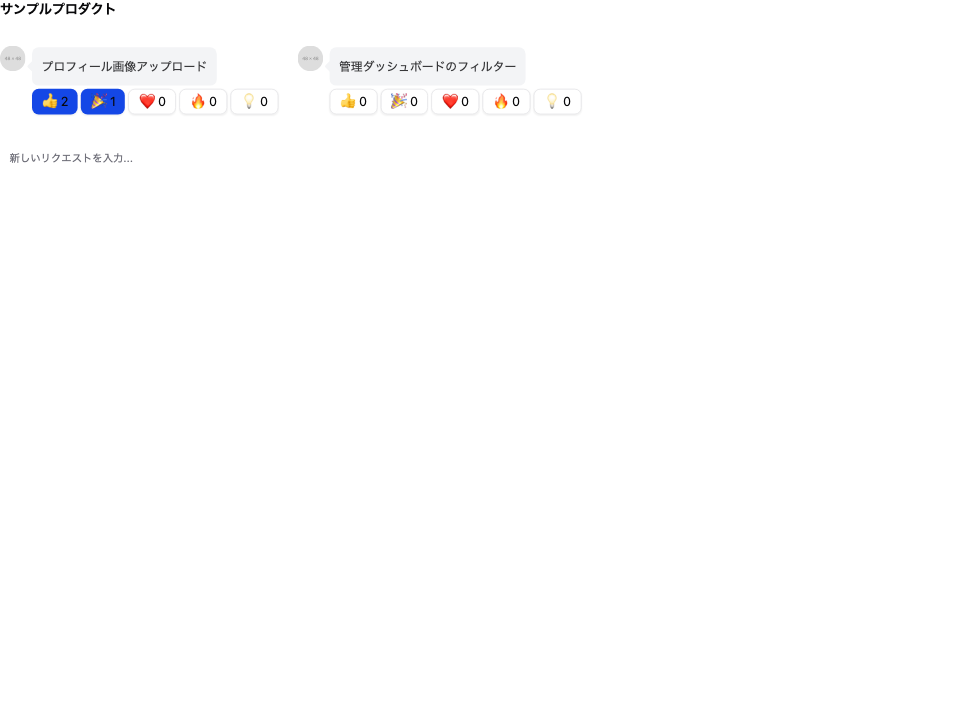
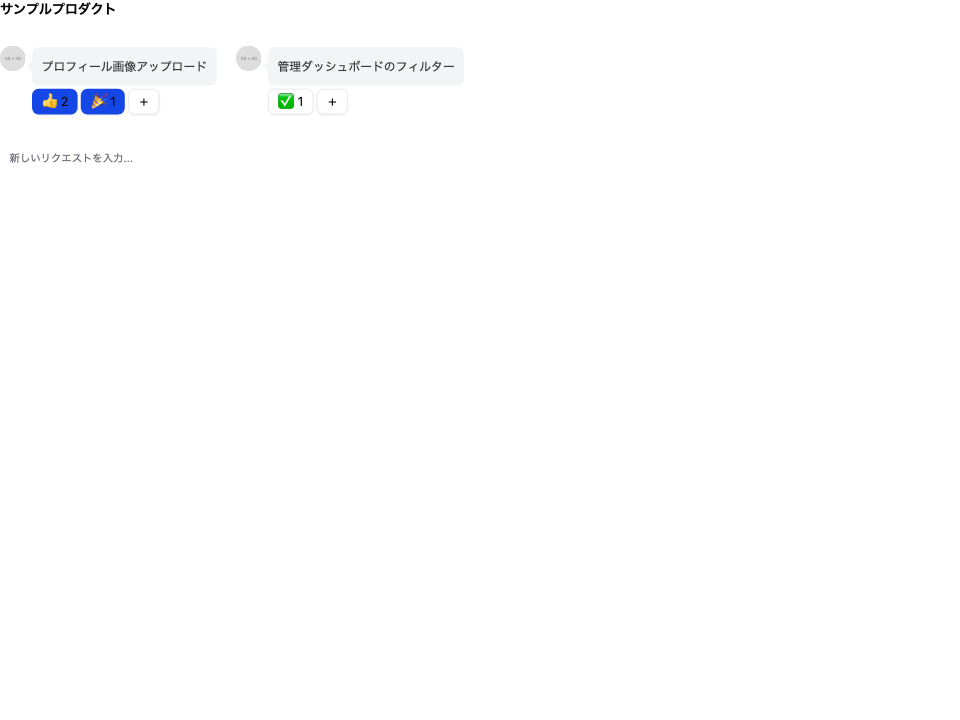
feat: add emoji picker component with related tests and stories

Changed region(s): [[0.25, 0.0611, 0.5312, 0.1528], [0.125, 0.1222, 0.2188, 0.1528], [0.5625, 0.1222, 0.5938, 0.1528]]

diff --git a/packages/user-feature-product/src/components/feature-request-item.tsx b/packages/user-feature-product/src/components/feature-request-item.tsx
@@ -2,11 +2,9 @@
 
 import { Button, RequestCard, VStack } from "@repo/ui/components";
 import Form from "next/form";
-import { type ComponentProps, useRef } from "react";
+import { type ComponentProps, useMemo, useRef } from "react";
 
 import type { ReactionSummary } from "../libs/reaction-summary";
-
-const AVAILABLE_EMOJIS = ["👍", "🎉", "❤", "🔥", "💡"] as const;
 
 type Props = {
   avatar: RequestCardAvatar;
@@ -37,9 +35,7 @@ export const FeatureRequestItem = ({
   const actionInputRef = useRef<HTMLInputElement>(null);
 
   const handleReact = (emoji: string) => {
-    const clickedReaction = reactionOptions.find(
-      (reaction) => reaction.emoji === emoji,
-    );
+    const clickedReaction = reactionMap.get(emoji);
     const nextAction = clickedReaction?.reactedByViewer ? "down" : "up";
     if (actionInputRef.current) {
       actionInputRef.current.value = nextAction;
@@ -54,13 +50,11 @@ export const FeatureRequestItem = ({
     }
   };
 
-  const reactionMap = new Map(
-    reactions.map((reaction) => [reaction.emoji, reaction]),
+  const reactionMap = useMemo(
+    () => new Map(reactions.map((reaction) => [reaction.emoji, reaction])),
+    [reactions],
   );
-  const reactionOptions = AVAILABLE_EMOJIS.map(
-    (emoji) =>
-      reactionMap.get(emoji) ?? { count: 0, emoji, reactedByViewer: false },
-  );
+  const reactionOptions = reactions;
 
   const footerActions =
     canDelete && onDeleteFeatureRequest ? (
@@ -81,6 +75,7 @@ export const FeatureRequestItem = ({
       <RequestCard
         avatar={avatar}
         detail={detail}
+        enableEmojiPicker
         footerActions={footerActions}
         onReact={handleReact}
         reactions={reactionOptions}
@@ -95,7 +90,7 @@ export const FeatureRequestItem = ({
           type="hidden"
         />
         <input
-          defaultValue={reactionOptions[0]?.emoji ?? AVAILABLE_EMOJIS[0]}
+          defaultValue={reactionOptions[0]?.emoji ?? ""}
           name="emoji"
           ref={emojiInputRef}
           type="hidden"

diff --git a/packages/ui/src/components/domain/emoji-picker/emoji-picker.spec.tsx b/packages/ui/src/components/domain/emoji-picker/emoji-picker.spec.tsx
@@ -1,0 +1,58 @@
+import { ComponentProps, PropsWithChildren } from "react";
+import { describe, expect, it, vi } from "vitest";
+import { render } from "vitest-browser-react";
+
+import { EmojiPicker } from "./emoji-picker";
+
+vi.mock("../../shadcn", () => ({
+  Button: ({ children, ...props }: ComponentProps<"button">) => (
+    <button {...props}>{children}</button>
+  ),
+  DropdownMenu: ({ children }: PropsWithChildren) => (
+    <div data-testid="mock-dropdown">{children}</div>
+  ),
+  DropdownMenuContent: ({ children }: PropsWithChildren) => (
+    <div data-testid="mock-content">{children}</div>
+  ),
+  DropdownMenuTrigger: ({ children }: PropsWithChildren) => <>{children}</>,
+}));
+
+vi.mock("@emoji-mart/react", () => ({
+  __esModule: true,
+  default: ({ onEmojiSelect }: { onEmojiSelect: (emoji: unknown) => void }) => (
+    <button
+      data-testid="mock-picker"
+      onClick={() => onEmojiSelect({ native: "😄" })}
+      type="button"
+    >
+      pick
+    </button>
+  ),
+}));
+
+vi.mock("@emoji-mart/data", () => ({
+  __esModule: true,
+  default: {},
+}));
+
+describe("EmojiPicker", () => {
+  it("invokes onSelect with chosen emoji", async () => {
+    const handleSelect = vi.fn();
+    await render(<EmojiPicker onSelect={handleSelect} />);
+
+    const trigger =
+      document.querySelector<HTMLButtonElement>("button[aria-label]");
+    expect(trigger).not.toBeNull();
+
+    trigger?.click();
+
+    const pickerButton = document.querySelector<HTMLButtonElement>(
+      "[data-testid='mock-picker']",
+    );
+    expect(pickerButton).not.toBeNull();
+
+    pickerButton?.click();
+
+    expect(handleSelect).toHaveBeenCalledWith("😄");
+  });
+});

diff --git a/packages/ui/src/components/domain/request-card/request-card.spec.tsx b/packages/ui/src/components/domain/request-card/request-card.spec.tsx
@@ -1,4 +1,4 @@
-import { afterEach, describe, expect, it } from "vitest";
+import { describe, expect, it } from "vitest";
 import { render } from "vitest-browser-react";
 
 import { RequestCard } from "./request-card";
@@ -15,10 +15,6 @@ const openDialog = async () => {
   trigger?.click();
   await waitForDialog();
 };
-
-afterEach(() => {
-  document.body.innerHTML = "";
-});
 
 describe("RequestCard", () => {
   it("renders provided children", async () => {
@@ -60,5 +56,27 @@ describe("RequestCard", () => {
 
     const footer = document.querySelector("[data-slot='dialog-footer']");
     expect(footer?.textContent ?? "").toContain("カスタムアクション");
+  });
+
+  it("shows emoji picker trigger when enabled", async () => {
+    await render(
+      <RequestCard
+        avatar={{ fallbackText: "CF" }}
+        detail={{
+          content: "Detailed content",
+          createdAt: "2024-01-01T00:00:00.000Z",
+          title: "Child content",
+          updatedAt: "2024-01-02T00:00:00.000Z",
+        }}
+        enableEmojiPicker
+        onReact={() => {}}
+        text="Child content"
+      />,
+    );
+
+    const trigger = document.querySelector<HTMLButtonElement>(
+      "button[aria-label='リアクションを追加']",
+    );
+    expect(trigger).not.toBeNull();
   });
 });

diff --git a/packages/ui/src/components/domain/emoji-picker/emoji-picker.tsx b/packages/ui/src/components/domain/emoji-picker/emoji-picker.tsx
@@ -1,0 +1,46 @@
+import data from "@emoji-mart/data";
+import Picker from "@emoji-mart/react";
+
+import {
+  Button,
+  DropdownMenu,
+  DropdownMenuContent,
+  DropdownMenuTrigger,
+} from "../../shadcn";
+
+type Props = {
+  label?: string;
+  onSelect?: (emoji: string) => void;
+};
+
+export const EmojiPicker = ({
+  label = "リアクションを追加",
+  onSelect,
+}: Props) => {
+  const handleSelect = (emoji: undefined | { native?: string }) => {
+    const nativeEmoji = emoji?.native;
+    if (!nativeEmoji) return;
+    onSelect?.(nativeEmoji);
+  };
+
+  return (
+    <DropdownMenu>
+      <DropdownMenuTrigger asChild>
+        <Button aria-label={label} size="sm" type="button" variant="outline">
+          ＋
+        </Button>
+      </DropdownMenuTrigger>
+      <DropdownMenuContent className="border-0 p-0">
+        <Picker
+          data={data}
+          navPosition="none"
+          onEmojiSelect={handleSelect}
+          previewPosition="none"
+          searchPosition="none"
+          skinTonePosition="search"
+          theme="auto"
+        />
+      </DropdownMenuContent>
+    </DropdownMenu>
+  );
+};

diff --git a/packages/ui/src/components/domain/request-card/request-card.tsx b/packages/ui/src/components/domain/request-card/request-card.tsx
@@ -16,6 +16,7 @@ import {
 } from "../../shadcn";
 import { Text } from "../../typography";
 import { BubbleText } from "../bubble-text";
+import { EmojiPicker } from "../emoji-picker";
 import { EmojiReaction } from "../emoji-reaction";
 
 type Props = ComponentProps<typeof BubbleText> & {
@@ -30,6 +31,7 @@ type Props = ComponentProps<typeof BubbleText> & {
     title?: string;
     updatedAt?: Date | null | string;
   };
+  enableEmojiPicker?: boolean;
   footerActions?: ReactNode;
   onReact?: (emoji: string) => void;
   reactions?: {
@@ -60,6 +62,7 @@ const formatDateTime = (value?: Date | null | string) => {
 export const RequestCard = ({
   avatar,
   detail,
+  enableEmojiPicker = false,
   footerActions,
   onReact,
   reactions,
@@ -146,6 +149,9 @@ export const RequestCard = ({
               onClick={onReact ? () => onReact(reaction.emoji) : undefined}
             />
           ))}
+          {enableEmojiPicker && onReact ? (
+            <EmojiPicker label="リアクションを追加" onSelect={onReact} />
+          ) : null}
         </HStack>
       </VStack>
     </HStack>

diff --git a/packages/user-feature-product/src/components/feature-request-item.spec.tsx b/packages/user-feature-product/src/components/feature-request-item.spec.tsx
@@ -1,4 +1,4 @@
-import { afterEach, describe, expect, it } from "vitest";
+import { describe, expect, it } from "vitest";
 import { render } from "vitest-browser-react";
 
 import { FeatureRequestItem } from "./feature-request-item";
@@ -15,10 +15,6 @@ const openDialog = async () => {
   trigger?.click();
   await waitForDialog();
 };
-
-afterEach(() => {
-  document.body.innerHTML = "";
-});
 
 const baseDetail = {
   content: "Feature detail body",
@@ -52,6 +48,18 @@ describe("FeatureRequestItem", () => {
     await openDialog();
 
     expect(document.body.textContent).toContain("リクエストを削除");
+  });
+
+  it("renders custom emoji reactions from props", async () => {
+    await renderItem({
+      reactions: [{ count: 3, emoji: "✅", reactedByViewer: false }],
+    });
+
+    const reactionButton = Array.from(document.querySelectorAll("button")).find(
+      (button) => button.textContent?.includes("✅3"),
+    );
+
+    expect(reactionButton).toBeDefined();
   });
 
   it.skip("does not show the delete action when deletion is not allowed", async () => {

diff --git a/packages/ui/src/components/domain/emoji-picker/emoji-picker.stories.tsx b/packages/ui/src/components/domain/emoji-picker/emoji-picker.stories.tsx
@@ -1,0 +1,20 @@
+import type { Meta, StoryObj } from "@storybook/nextjs-vite";
+
+import { EmojiPicker } from "./emoji-picker";
+
+const meta = {
+  args: {
+    label: "リアクションを追加",
+  },
+  component: EmojiPicker,
+  title: "Domain/EmojiPicker",
+} satisfies Meta<typeof EmojiPicker>;
+
+export default meta;
+type Story = StoryObj<typeof meta>;
+
+export const Default: Story = {
+  args: {
+    onSelect: () => {},
+  },
+};

diff --git a/packages/ui/src/components/domain/request-card/request-card.stories.tsx b/packages/ui/src/components/domain/request-card/request-card.stories.tsx
@@ -13,6 +13,7 @@ const meta = {
       title: "コメント機能の追加",
       updatedAt: "2024-12-05T08:45:00.000Z",
     },
+    enableEmojiPicker: true,
     reactions: [
       { count: 12, emoji: "👍", reactedByViewer: true },
       { count: 5, emoji: "❤", reactedByViewer: false },

diff --git a/packages/ui/src/components/domain/index.ts b/packages/ui/src/components/domain/index.ts
@@ -1,4 +1,5 @@
 export * from "./bubble-input";
 export * from "./bubble-text";
+export * from "./emoji-picker";
 export * from "./emoji-reaction";
 export * from "./request-card";

diff --git a/packages/ui/src/components/domain/emoji-picker/index.ts b/packages/ui/src/components/domain/emoji-picker/index.ts
@@ -1,0 +1,1 @@
+export * from "./emoji-picker";
